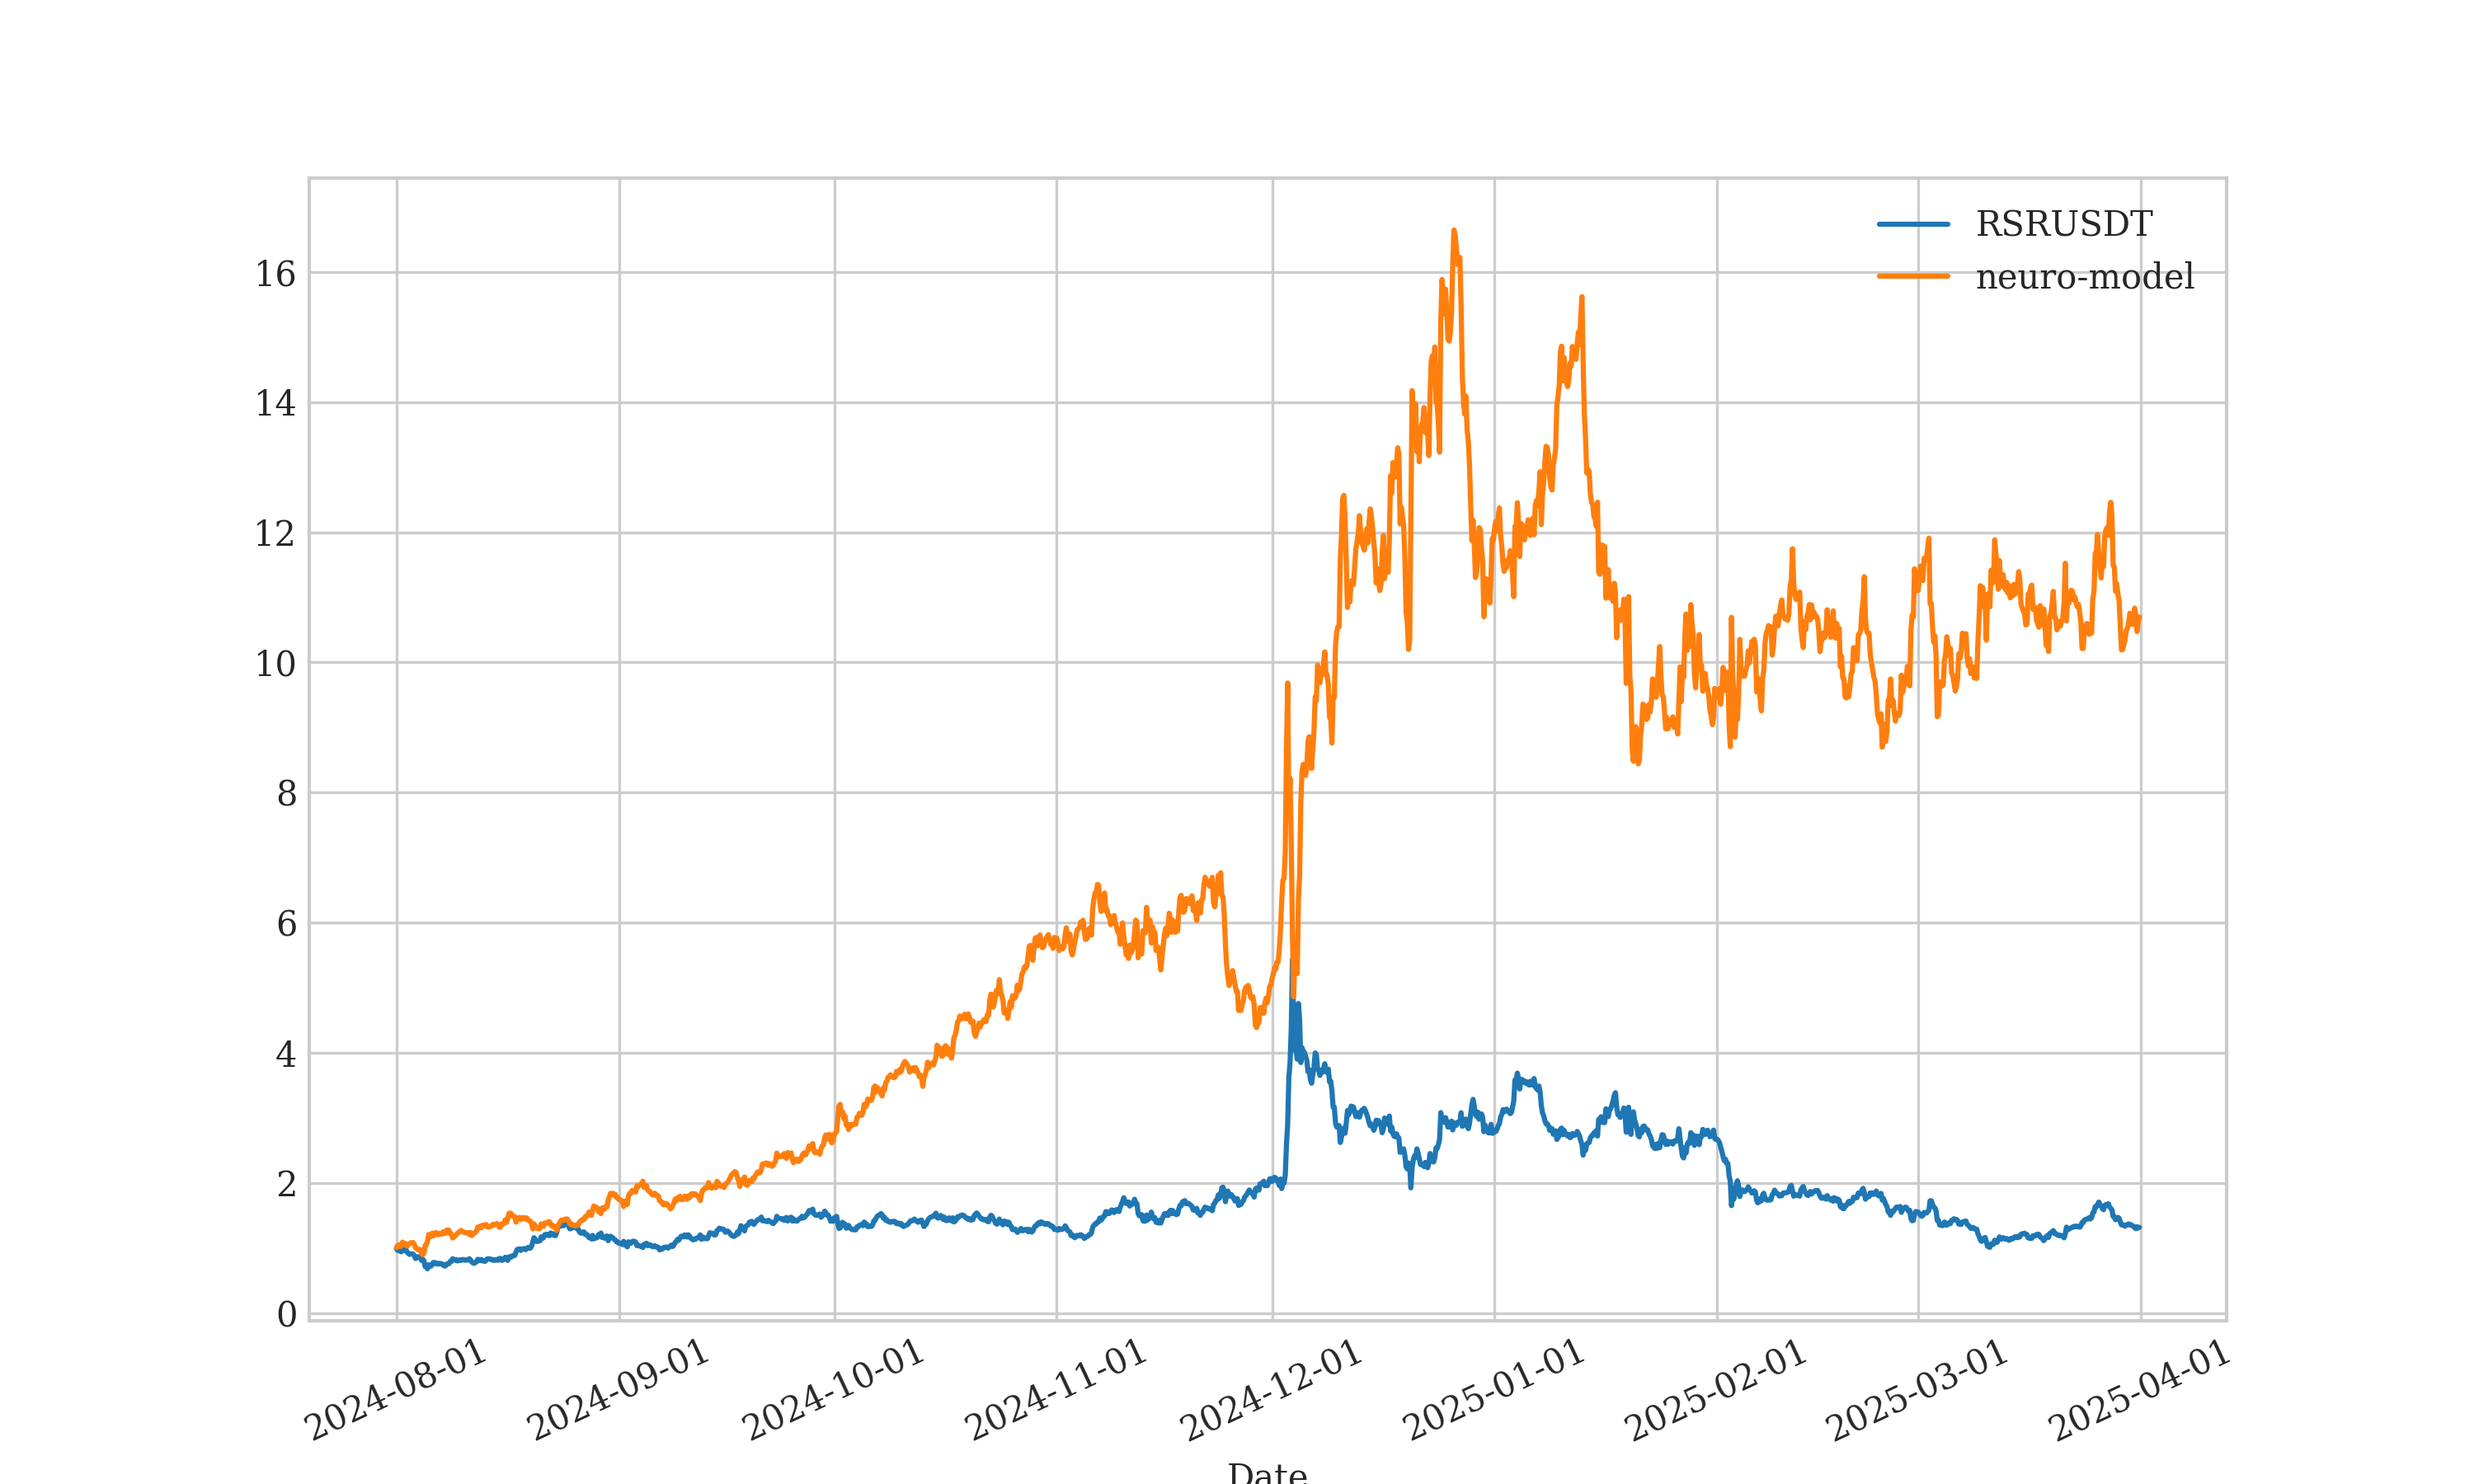
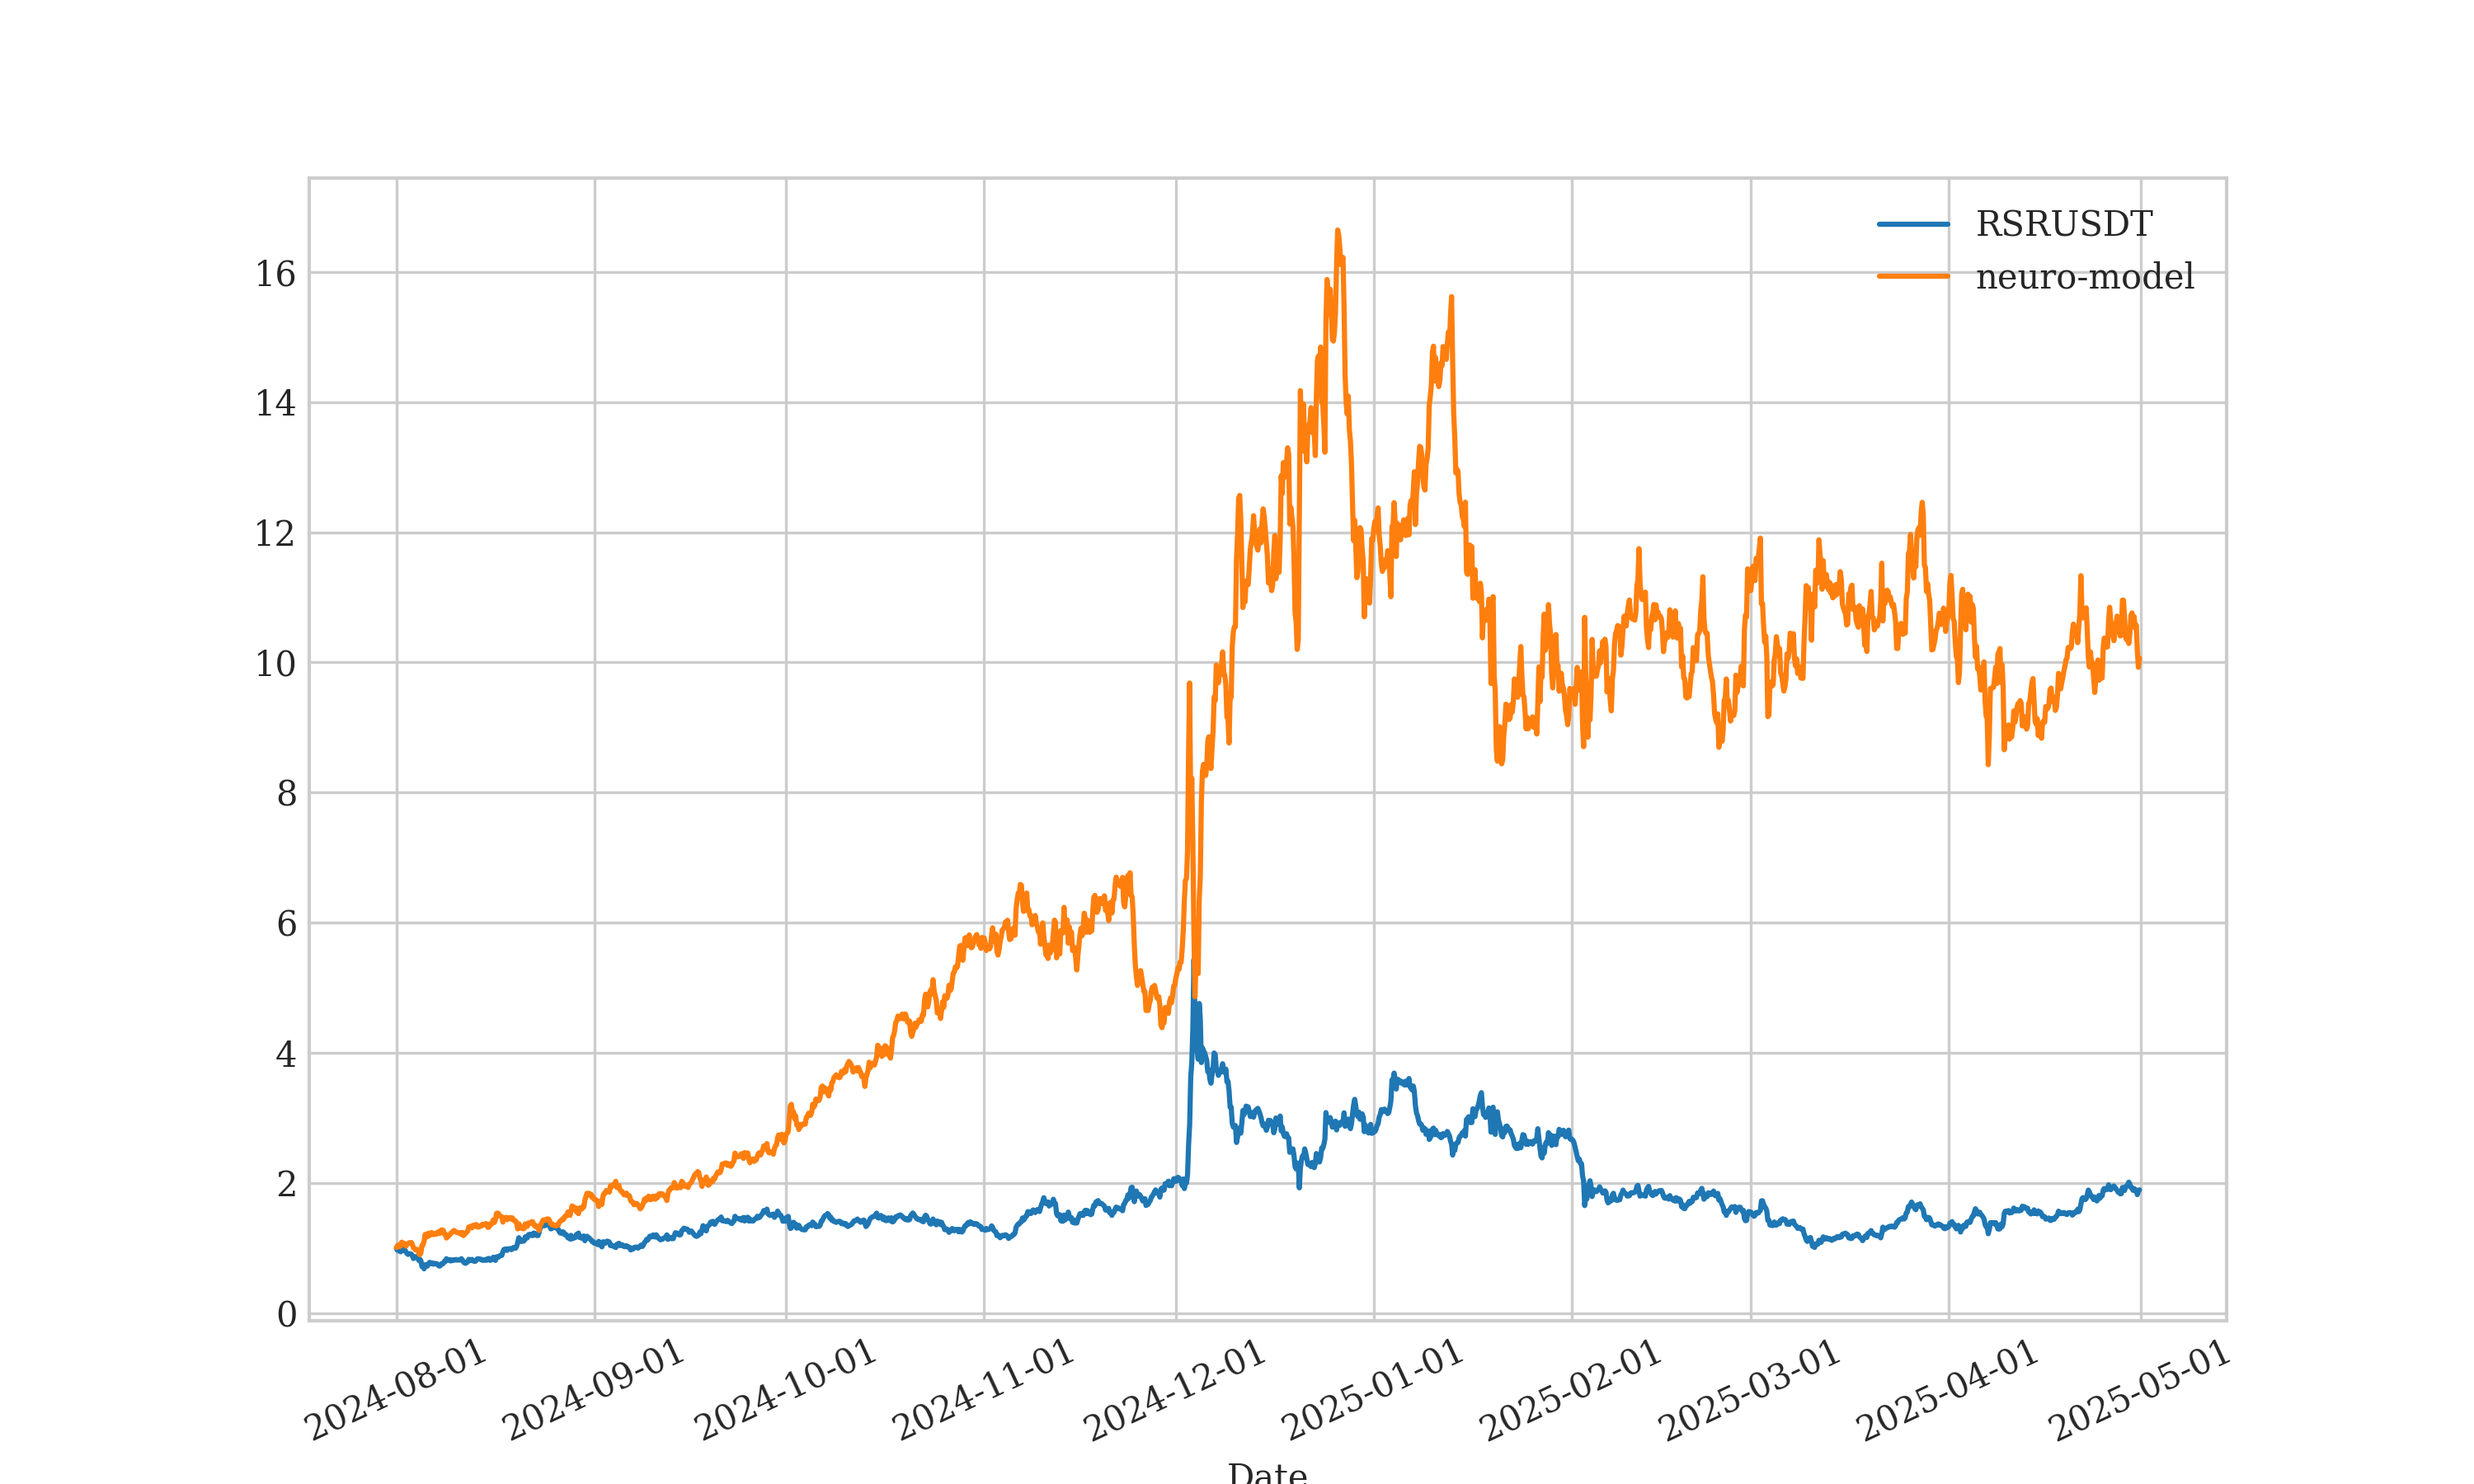
update performance, April 2025

diff --git a/PERFORMANCE.md b/PERFORMANCE.md
@@ -13,7 +13,7 @@ _Note: Performance does not include commissions_
 | Jan 25                      | -20%                  | +56%                  |
 | Feb 25                      | +15%                  | +59%                  |
 | Mar 25                      | -4%                   | +50%                  |
-
+| Apr 25                      | -6%                   | +60%                  |
 
 ---
 
@@ -30,7 +30,7 @@ _Note: Performance does not include commissions_
 | Jan 25                      | +19%                   |
 | Feb 25                      | +66%                   |
 | Mar 25                      | -21%                   |
-
+| Apr 25                      | +9%                    |
 
 
 ---
@@ -51,6 +51,7 @@ _Note: Performance does not include commissions_
 | Jan 25                      | +68%                  |
 | Feb 25                      | +75%                  |
 | Mar 25                      | -3%                   |
+| Apr 25                      | +43%                  |
 
 
 
@@ -71,6 +72,7 @@ _Note: Performance does not include commissions_
 | Jan 25                      | +9%                   |
 | Feb 25                      | +16%                  |
 | Mar 25                      | +40%                  |
+| Apr 25                      | -15%                  |
 
 
 
